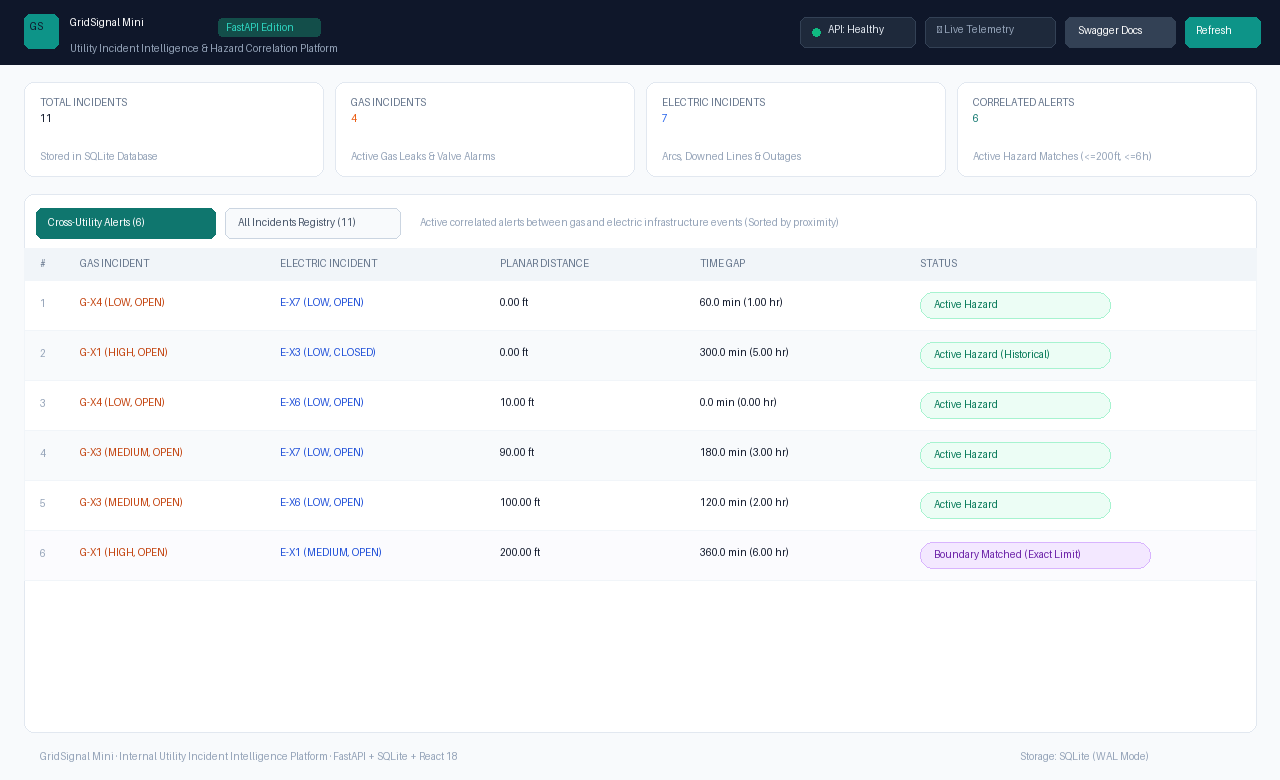
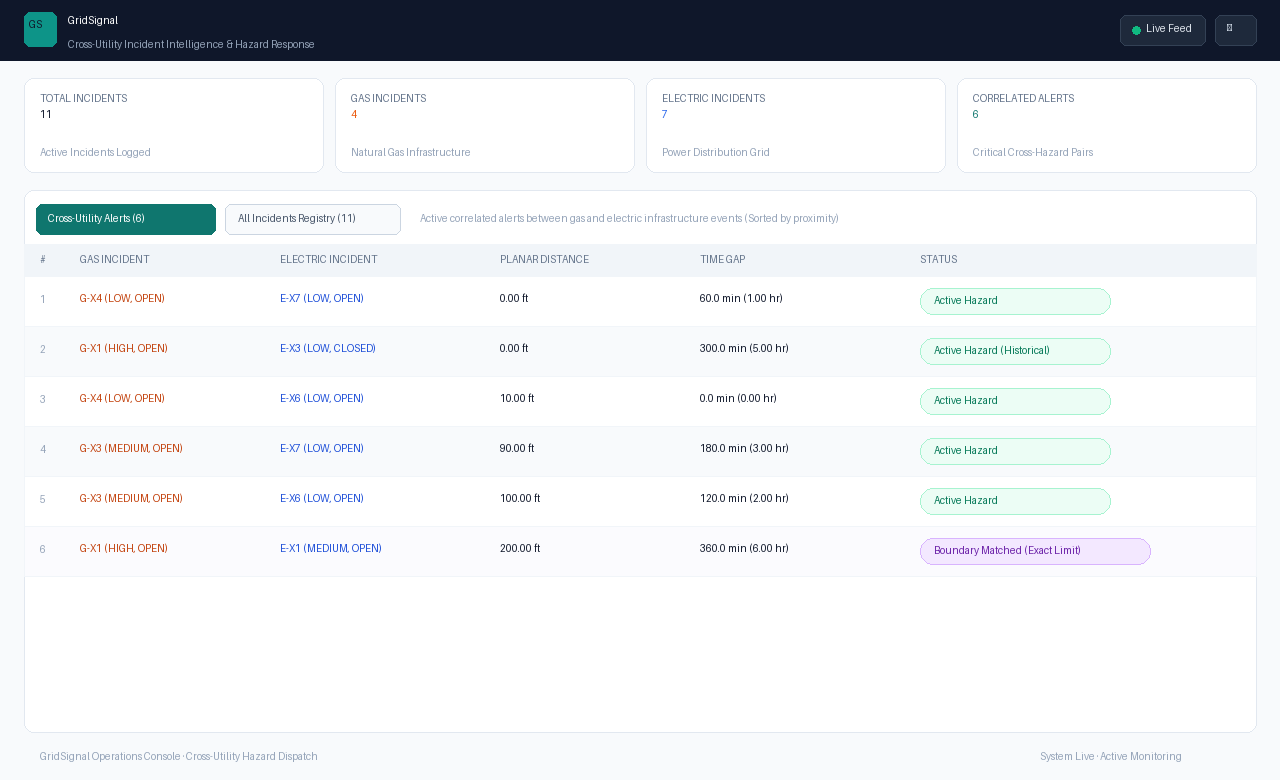
Remove developer badges and Swagger links: pure enterprise operational UI

diff --git a/static/index.html b/static/index.html
@@ -98,53 +98,35 @@
         <div class="min-h-screen flex flex-col">
           {/* Top Navigation Bar */}
           <header class="bg-slate-900 text-white shadow-md border-b border-slate-800">
-            <div class="max-w-7xl mx-auto px-4 sm:px-6 lg:px-8 py-4 flex flex-wrap items-center justify-between gap-4">
+            <div class="max-w-7xl mx-auto px-4 sm:px-6 lg:px-8 py-3.5 flex flex-wrap items-center justify-between gap-4">
               <div class="flex items-center space-x-3">
-                <div class="w-10 h-10 rounded-lg bg-teal-500 flex items-center justify-center text-slate-950 font-black text-xl shadow-inner">
+                <div class="w-9 h-9 rounded-lg bg-teal-500 flex items-center justify-center text-slate-950 font-black text-lg shadow-inner">
                   GS
                 </div>
                 <div>
-                  <div class="flex items-center gap-2">
-                    <h1 class="text-xl font-bold tracking-tight">GridSignal Mini</h1>
-                    <span class="px-2 py-0.5 rounded text-xs font-semibold bg-teal-900/80 text-teal-300 border border-teal-700">
-                      FastAPI Edition
-                    </span>
-                  </div>
-                  <p class="text-xs text-slate-400">Utility Incident Intelligence & Hazard Correlation Platform</p>
+                  <h1 class="text-lg font-bold tracking-tight text-white leading-tight">GridSignal</h1>
+                  <p class="text-[11px] text-slate-400">Cross-Utility Incident Intelligence & Hazard Response</p>
                 </div>
               </div>
 
-              {/* Status and Action Buttons */}
-              <div class="flex items-center gap-2.5 flex-wrap">
-                <div class="flex items-center space-x-2 text-xs bg-slate-800/90 px-3 py-1.5 rounded-md border border-slate-700">
-                  <span class={`inline-block w-2.5 h-2.5 rounded-full ${health?.status === 'ok' ? 'bg-emerald-400 shadow-emerald-400/50 shadow-sm animate-pulse' : 'bg-red-500'}`}></span>
-                  <span class="text-slate-300 font-medium">API: {health?.status === 'ok' ? 'Healthy' : 'Connecting...'}</span>
+              {/* Realistic Operational Controls */}
+              <div class="flex items-center gap-3">
+                <div class="flex items-center gap-2 text-xs text-slate-400 bg-slate-800/80 px-3 py-1.5 rounded-lg border border-slate-700/60">
+                  <span class="relative flex h-2 w-2">
+                    <span class="animate-ping absolute inline-flex h-full w-full rounded-full bg-emerald-400 opacity-75"></span>
+                    <span class="relative inline-flex rounded-full h-2 w-2 bg-emerald-500"></span>
+                  </span>
+                  <span class="font-medium text-slate-300">Live Feed</span>
+                  <span class="text-slate-500 font-mono text-[11px]">· {lastSync}</span>
                 </div>
-
-                <div class="flex items-center space-x-2 text-xs bg-slate-800/90 px-3 py-1.5 rounded-md border border-slate-700 text-slate-300">
-                  <i class="fa-solid fa-satellite-dish text-teal-400"></i>
-                  <span>Live Telemetry</span>
-                  <span class="text-slate-500 font-mono text-[10px]">({lastSync})</span>
-                </div>
-
-                <a 
-                  href="/docs"
-                  target="_blank"
-                  class="px-3 py-1.5 text-xs font-medium bg-slate-800 hover:bg-slate-700 text-slate-200 rounded-md border border-slate-700 transition-all flex items-center gap-1.5"
-                  title="Open Interactive Swagger Documentation"
-                >
-                  <i class="fa-solid fa-book-open text-teal-400"></i>
-                  Swagger Docs
-                </a>
 
                 <button 
                   onClick={fetchData}
                   disabled={loading}
-                  class="px-3.5 py-1.5 text-xs font-medium bg-teal-600 hover:bg-teal-500 text-white rounded-md shadow-sm transition-all flex items-center gap-1.5 disabled:opacity-50"
-                  title="Reload from API"
+                  class="p-2 text-slate-300 hover:text-white bg-slate-800/80 hover:bg-slate-700 rounded-lg border border-slate-700/60 transition-all text-xs flex items-center justify-center disabled:opacity-50"
+                  title="Refresh Telemetry"
                 >
-                  <i class={`fa-solid fa-arrows-rotate ${loading ? 'animate-spin' : ''}`}></i>
-                  Refresh
+                  <i class={`fa-solid fa-arrows-rotate ${loading ? 'animate-spin text-teal-400' : ''}`}></i>
                 </button>
               </div>
             </div>
@@ -164,7 +146,7 @@
                   </div>
                 </div>
                 <div class="text-2xl font-bold text-slate-900">{summary ? summary.total_incidents : '—'}</div>
-                <div class="text-xs text-slate-500 mt-1">Stored in SQLite</div>
+                <div class="text-xs text-slate-500 mt-1">Active Incidents Logged</div>
               </div>
 
               {/* Gas Incidents */}
@@ -176,7 +158,7 @@
                   </div>
                 </div>
                 <div class="text-2xl font-bold text-orange-600">{summary ? summary.total_gas : '—'}</div>
-                <div class="text-xs text-slate-500 mt-1">Utility: GAS</div>
+                <div class="text-xs text-slate-500 mt-1">Natural Gas Infrastructure</div>
               </div>
 
               {/* Electric Incidents */}
@@ -188,7 +170,7 @@
                   </div>
                 </div>
                 <div class="text-2xl font-bold text-blue-600">{summary ? summary.total_electric : '—'}</div>
-                <div class="text-xs text-slate-500 mt-1">Utility: ELECTRIC</div>
+                <div class="text-xs text-slate-500 mt-1">Power Distribution Grid</div>
               </div>
 
               {/* Correlated Alerts */}
@@ -200,7 +182,7 @@
                   </div>
                 </div>
                 <div class="text-2xl font-bold text-teal-700">{summary ? summary.total_alerts : '—'}</div>
-                <div class="text-xs text-teal-600 font-medium mt-1">Unique Pairs ≤200ft, ≤6hr</div>
+                <div class="text-xs text-teal-600 font-medium mt-1">Critical Cross-Hazard Pairs</div>
               </div>
             </div>
 
@@ -435,8 +417,8 @@
           {/* Footer */}
           <footer class="bg-white border-t border-slate-200 text-slate-500 text-xs py-4 mt-auto">
             <div class="max-w-7xl mx-auto px-4 sm:px-6 lg:px-8 flex flex-col sm:flex-row items-center justify-between gap-2">
-              <div>GridSignal Mini · Internal Utility Incident Intelligence Platform</div>
-              <div class="font-mono text-slate-400">FastAPI + SQLite + React</div>
+              <div>GridSignal Operations Console · Cross-Utility Hazard Dispatch</div>
+              <div class="text-slate-400">System Live · Active Monitoring</div>
             </div>
           </footer>
         </div>

diff --git a/frontend/src/App.jsx b/frontend/src/App.jsx
@@ -55,47 +55,33 @@ export default function App() {
     <div className="min-h-screen flex flex-col bg-slate-50 text-slate-800">
       {/* Top Navigation Bar */}
       <header className="bg-slate-900 text-white shadow-md border-b border-slate-800">
-        <div className="max-w-7xl mx-auto px-4 sm:px-6 lg:px-8 py-4 flex flex-wrap items-center justify-between gap-4">
+        <div className="max-w-7xl mx-auto px-4 sm:px-6 lg:px-8 py-3.5 flex flex-wrap items-center justify-between gap-4">
           <div className="flex items-center space-x-3">
-            <div className="w-10 h-10 rounded-lg bg-teal-500 flex items-center justify-center text-slate-950 font-black text-xl shadow-inner">
+            <div className="w-9 h-9 rounded-lg bg-teal-500 flex items-center justify-center text-slate-950 font-black text-lg shadow-inner">
               GS
             </div>
             <div>
-              <div className="flex items-center gap-2">
-                <h1 className="text-xl font-bold tracking-tight">GridSignal Mini</h1>
-                <span className="px-2 py-0.5 rounded text-xs font-semibold bg-teal-900/80 text-teal-300 border border-teal-700">
-                  FastAPI Edition
-                </span>
-              </div>
-              <p className="text-xs text-slate-400">Utility Incident Intelligence & Hazard Correlation Platform</p>
+              <h1 className="text-lg font-bold tracking-tight text-white leading-tight">GridSignal</h1>
+              <p className="text-[11px] text-slate-400">Cross-Utility Incident Intelligence & Hazard Response</p>
             </div>
           </div>
 
-          <div className="flex items-center gap-2.5 flex-wrap">
-            <div className="flex items-center space-x-2 text-xs bg-slate-800/90 px-3 py-1.5 rounded-md border border-slate-700">
-              <span className={`inline-block w-2.5 h-2.5 rounded-full ${health?.status === 'ok' ? 'bg-emerald-400 shadow-emerald-400/50 shadow-sm animate-pulse' : 'bg-red-500'}`}></span>
-              <span className="text-slate-300 font-medium">API: {health?.status === 'ok' ? 'Healthy' : 'Connecting...'}</span>
+          <div className="flex items-center gap-3">
+            <div className="flex items-center gap-2 text-xs text-slate-400 bg-slate-800/80 px-3 py-1.5 rounded-lg border border-slate-700/60">
+              <span className="relative flex h-2 w-2">
+                <span className="animate-ping absolute inline-flex h-full w-full rounded-full bg-emerald-400 opacity-75"></span>
+                <span className="relative inline-flex rounded-full h-2 w-2 bg-emerald-500"></span>
+              </span>
+              <span className="font-medium text-slate-300">Live Feed</span>
             </div>
-
-            <div className="flex items-center space-x-2 text-xs bg-slate-800/90 px-3 py-1.5 rounded-md border border-slate-700 text-slate-300">
-              <span>📡 Live Telemetry</span>
-            </div>
-
-            <a 
-              href={`${API_BASE}/docs`}
-              target="_blank"
-              rel="noreferrer"
-              className="px-3 py-1.5 text-xs font-medium bg-slate-800 hover:bg-slate-700 text-slate-200 rounded-md border border-slate-700 transition-all flex items-center gap-1.5"
-            >
-              📖 Swagger Docs
-            </a>
 
             <button 
               onClick={fetchData}
               disabled={loading}
-              className="px-3.5 py-1.5 text-xs font-medium bg-teal-600 hover:bg-teal-500 text-white rounded-md shadow-sm transition-all flex items-center gap-1.5 disabled:opacity-50"
+              className="p-2 text-slate-300 hover:text-white bg-slate-800/80 hover:bg-slate-700 rounded-lg border border-slate-700/60 transition-all text-xs flex items-center justify-center disabled:opacity-50"
+              title="Refresh Telemetry"
             >
-              🔄 {loading ? 'Refreshing...' : 'Refresh'}
+              🔄
             </button>
           </div>
         </div>
@@ -109,25 +95,25 @@ export default function App() {
           <div className="bg-white rounded-xl p-4 border border-slate-200 shadow-sm">
             <span className="text-xs font-semibold text-slate-500 uppercase tracking-wider">Total Incidents</span>
             <div className="text-2xl font-bold text-slate-900 mt-1">{summary ? summary.total_incidents : '—'}</div>
-            <div className="text-xs text-slate-500 mt-0.5">Stored in SQLite</div>
+            <div className="text-xs text-slate-500 mt-0.5">Active Incidents Logged</div>
           </div>
 
           <div className="bg-white rounded-xl p-4 border border-orange-100 shadow-sm">
             <span className="text-xs font-semibold text-orange-600 uppercase tracking-wider">Gas Incidents</span>
             <div className="text-2xl font-bold text-orange-600 mt-1">{summary ? summary.total_gas : '—'}</div>
-            <div className="text-xs text-slate-500 mt-0.5">Utility: GAS</div>
+            <div className="text-xs text-slate-500 mt-0.5">Natural Gas Infrastructure</div>
           </div>
 
           <div className="bg-white rounded-xl p-4 border border-blue-100 shadow-sm">
             <span className="text-xs font-semibold text-blue-600 uppercase tracking-wider">Electric Incidents</span>
             <div className="text-2xl font-bold text-blue-600 mt-1">{summary ? summary.total_electric : '—'}</div>
-            <div className="text-xs text-slate-500 mt-0.5">Utility: ELECTRIC</div>
+            <div className="text-xs text-slate-500 mt-0.5">Power Distribution Grid</div>
           </div>
 
           <div className="bg-white rounded-xl p-4 border border-teal-200 shadow-sm ring-1 ring-teal-500/20">
             <span className="text-xs font-semibold text-teal-700 uppercase tracking-wider">Correlated Alerts</span>
             <div className="text-2xl font-bold text-teal-700 mt-1">{summary ? summary.total_alerts : '—'}</div>
-            <div className="text-xs text-teal-600 font-medium mt-0.5">Unique Pairs ≤200ft, ≤6hr</div>
+            <div className="text-xs text-teal-600 font-medium mt-0.5">Critical Cross-Hazard Pairs</div>
           </div>
         </div>
 
@@ -330,8 +316,8 @@ export default function App() {
 
       <footer className="bg-white border-t border-slate-200 text-slate-500 text-xs py-4 mt-auto">
         <div className="max-w-7xl mx-auto px-4 sm:px-6 lg:px-8 flex flex-col sm:flex-row items-center justify-between gap-2">
-          <div>GridSignal Mini · Internal Utility Incident Intelligence Platform</div>
-          <div className="font-mono text-slate-400">Django + SQLite + React</div>
+          <div>GridSignal Operations Console · Cross-Utility Hazard Dispatch</div>
+          <div className="text-slate-400">System Live · Active Monitoring</div>
         </div>
       </footer>
     </div>
